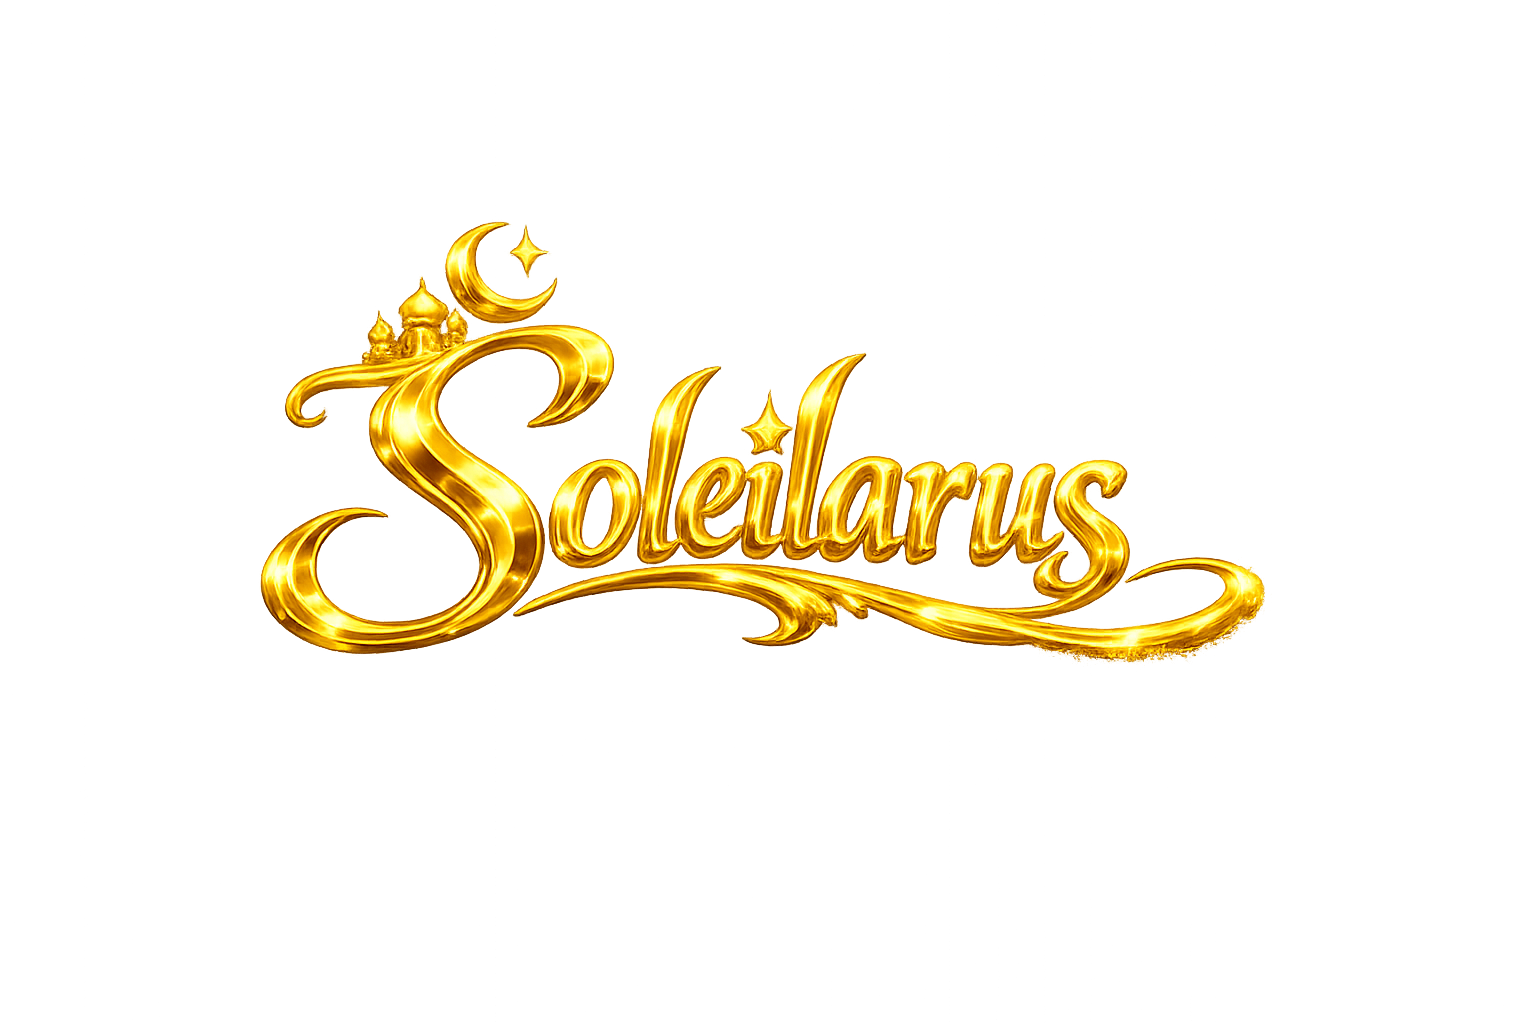
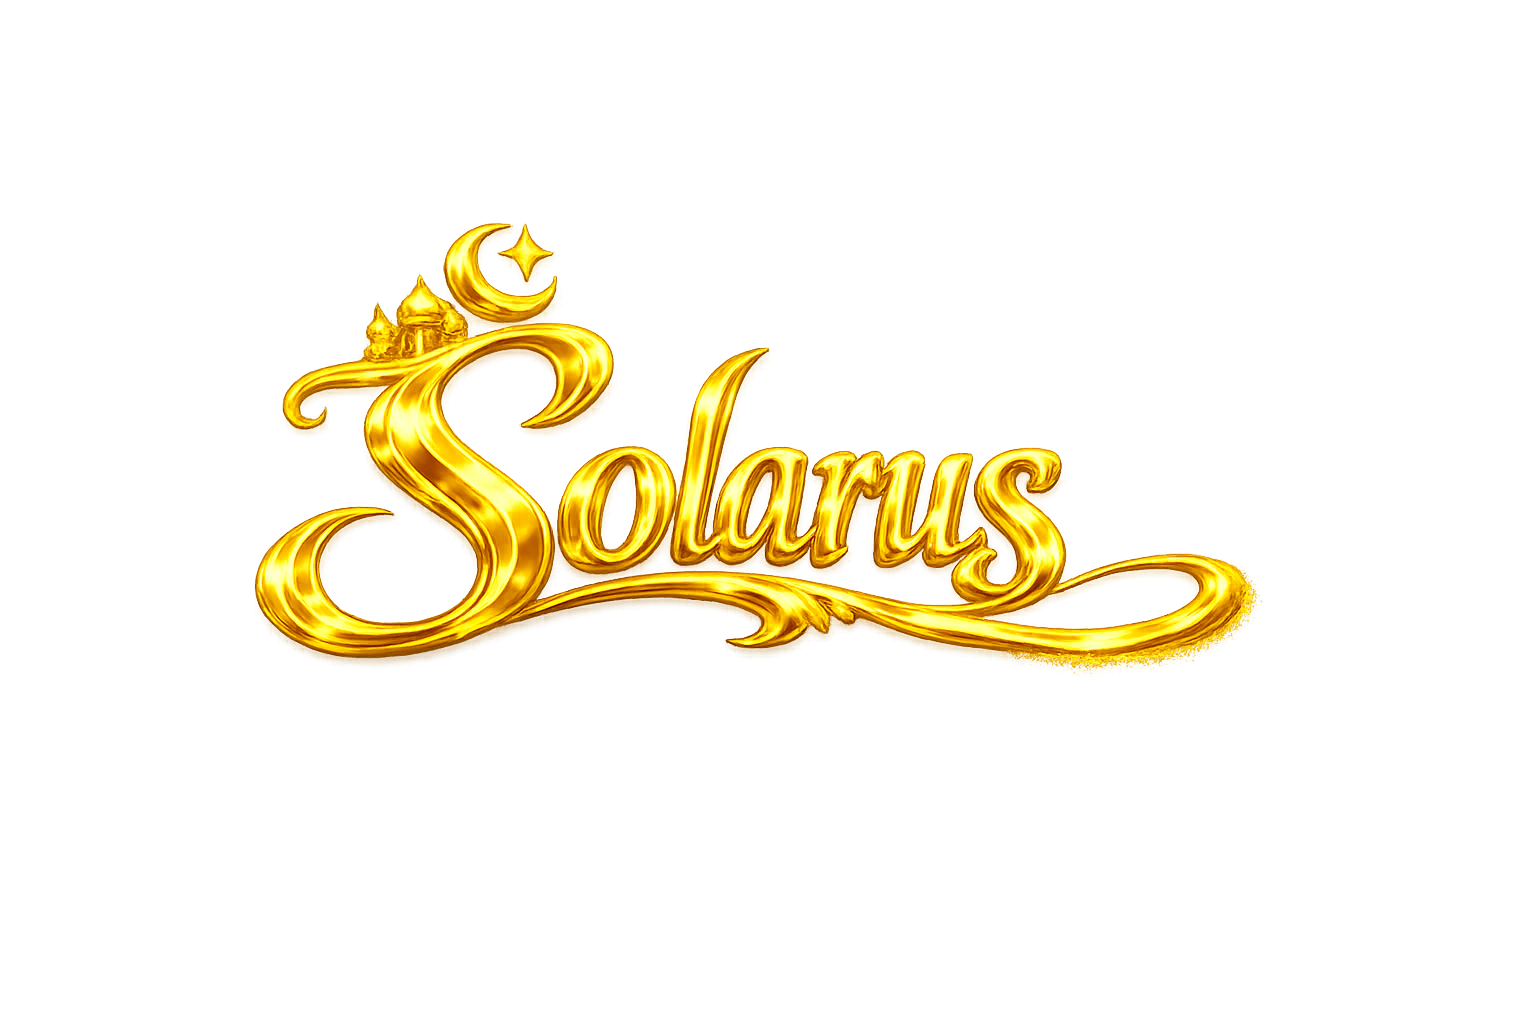
up

Changed region(s): [[0.1562, 0.2188, 0.8438, 0.6562]]

diff --git a/src/Pages/Salat/index.jsx b/src/Pages/Salat/index.jsx
@@ -1,21 +1,21 @@
-import React, { useState, useEffect } from 'react';
-import axios from 'axios';
-import { MapPin, Search, Clock, Sunrise, Sunset, Moon } from 'lucide-react';
-import './salat.scss';
+import React, { useState, useEffect } from "react";
+import axios from "axios";
+import { MapPin, Search, Clock, Sunrise, Sunset, Moon } from "lucide-react";
+import "./salat.scss";
 
 const PRAYER_NAMES = {
-  Fajr: 'Fajr',
-  Sunrise: 'Chourouk',
-  Dhuhr: 'Dohr',
-  Asr: 'Asr',
-  Maghrib: 'Maghreb',
-  Isha: 'Icha'
+  Fajr: "Fajr",
+  Sunrise: "Chourouk",
+  Dhuhr: "Dohr",
+  Asr: "Asr",
+  Maghrib: "Maghreb",
+  Isha: "Icha",
 };
 
 const Salat = () => {
-  const [city, setCity] = useState('Paris');
-  const [country, setCountry] = useState('France');
-  const [searchQuery, setSearchQuery] = useState('');
+  const [city, setCity] = useState("Paris");
+  const [country, setCountry] = useState("France");
+  const [searchQuery, setSearchQuery] = useState("");
   const [timings, setTimings] = useState(null);
   const [loading, setLoading] = useState(true);
   const [error, setError] = useState(null);
@@ -28,17 +28,20 @@ const Salat = () => {
     try {
       setLoading(true);
       setError(null);
-      const response = await axios.get(`https://api.aladhan.com/v1/timingsByCity`, {
-        params: {
-          city: cityName,
-          country: countryName,
-          method: 12, // Musulmans de France (ex-UOIF) - Angle 12°
-        }
-      });
+      const response = await axios.get(
+        `https://api.aladhan.com/v1/timingsByCity`,
+        {
+          params: {
+            city: cityName,
+            country: countryName,
+            method: 12, // Musulmans de France (ex-UOIF) - Angle 12°
+          },
+        },
+      );
       setTimings(response.data.data.timings);
       setLoading(false);
     } catch (err) {
-      setError('Impossible de récupérer les horaires pour cette ville.');
+      setError("Impossible de récupérer les horaires pour cette ville.");
       setLoading(false);
     }
   };
@@ -47,25 +50,28 @@ const Salat = () => {
     e.preventDefault();
     if (searchQuery.trim()) {
       // Basic splitting for "City, Country"
-      const parts = searchQuery.split(',');
+      const parts = searchQuery.split(",");
       setCity(parts[0].trim());
       if (parts.length > 1) {
         setCountry(parts[1].trim());
       }
-      setSearchQuery('');
+      setSearchQuery("");
     }
   };
 
   const renderPrayerCard = (name, time, isNext = false) => {
     let Icon = Clock;
-    if (name === 'Sunrise') Icon = Sunrise;
-    else if (name === 'Maghrib') Icon = Sunset;
-    else if (name === 'Isha' || name === 'Fajr') Icon = Moon;
+    if (name === "Sunrise") Icon = Sunrise;
+    else if (name === "Maghrib") Icon = Sunset;
+    else if (name === "Isha" || name === "Fajr") Icon = Moon;
 
     const displayName = PRAYER_NAMES[name] || name;
 
     return (
-      <div key={name} className={`prayer-card glass-panel ${isNext ? 'next-prayer' : ''}`}>
+      <div
+        key={name}
+        className={`prayer-card glass-panel ${isNext ? "next-prayer" : ""}`}
+      >
         <div className="prayer-card__icon-wrap">
           <Icon size={24} className="prayer-card__icon" />
         </div>
@@ -84,7 +90,14 @@ const Salat = () => {
           <MapPin className="text-accent" size={28} />
           <div>
             <h1>{city}</h1>
-            <p className="text-secondary">{new Date().toLocaleDateString('fr-FR', { weekday: 'long', year: 'numeric', month: 'long', day: 'numeric' })}</p>
+            <p className="text-secondary">
+              {new Date().toLocaleDateString("fr-FR", {
+                weekday: "long",
+                year: "numeric",
+                month: "long",
+                day: "numeric",
+              })}
+            </p>
           </div>
         </div>
 
@@ -113,8 +126,8 @@ const Salat = () => {
         </div>
       ) : timings ? (
         <div className="prayers-grid">
-          {['Fajr', 'Sunrise', 'Dhuhr', 'Asr', 'Maghrib', 'Isha'].map((prayer) => 
-            renderPrayerCard(prayer, timings[prayer])
+          {["Fajr", "Sunrise", "Dhuhr", "Asr", "Maghrib", "Isha"].map(
+            (prayer) => renderPrayerCard(prayer, timings[prayer]),
           )}
         </div>
       ) : null}